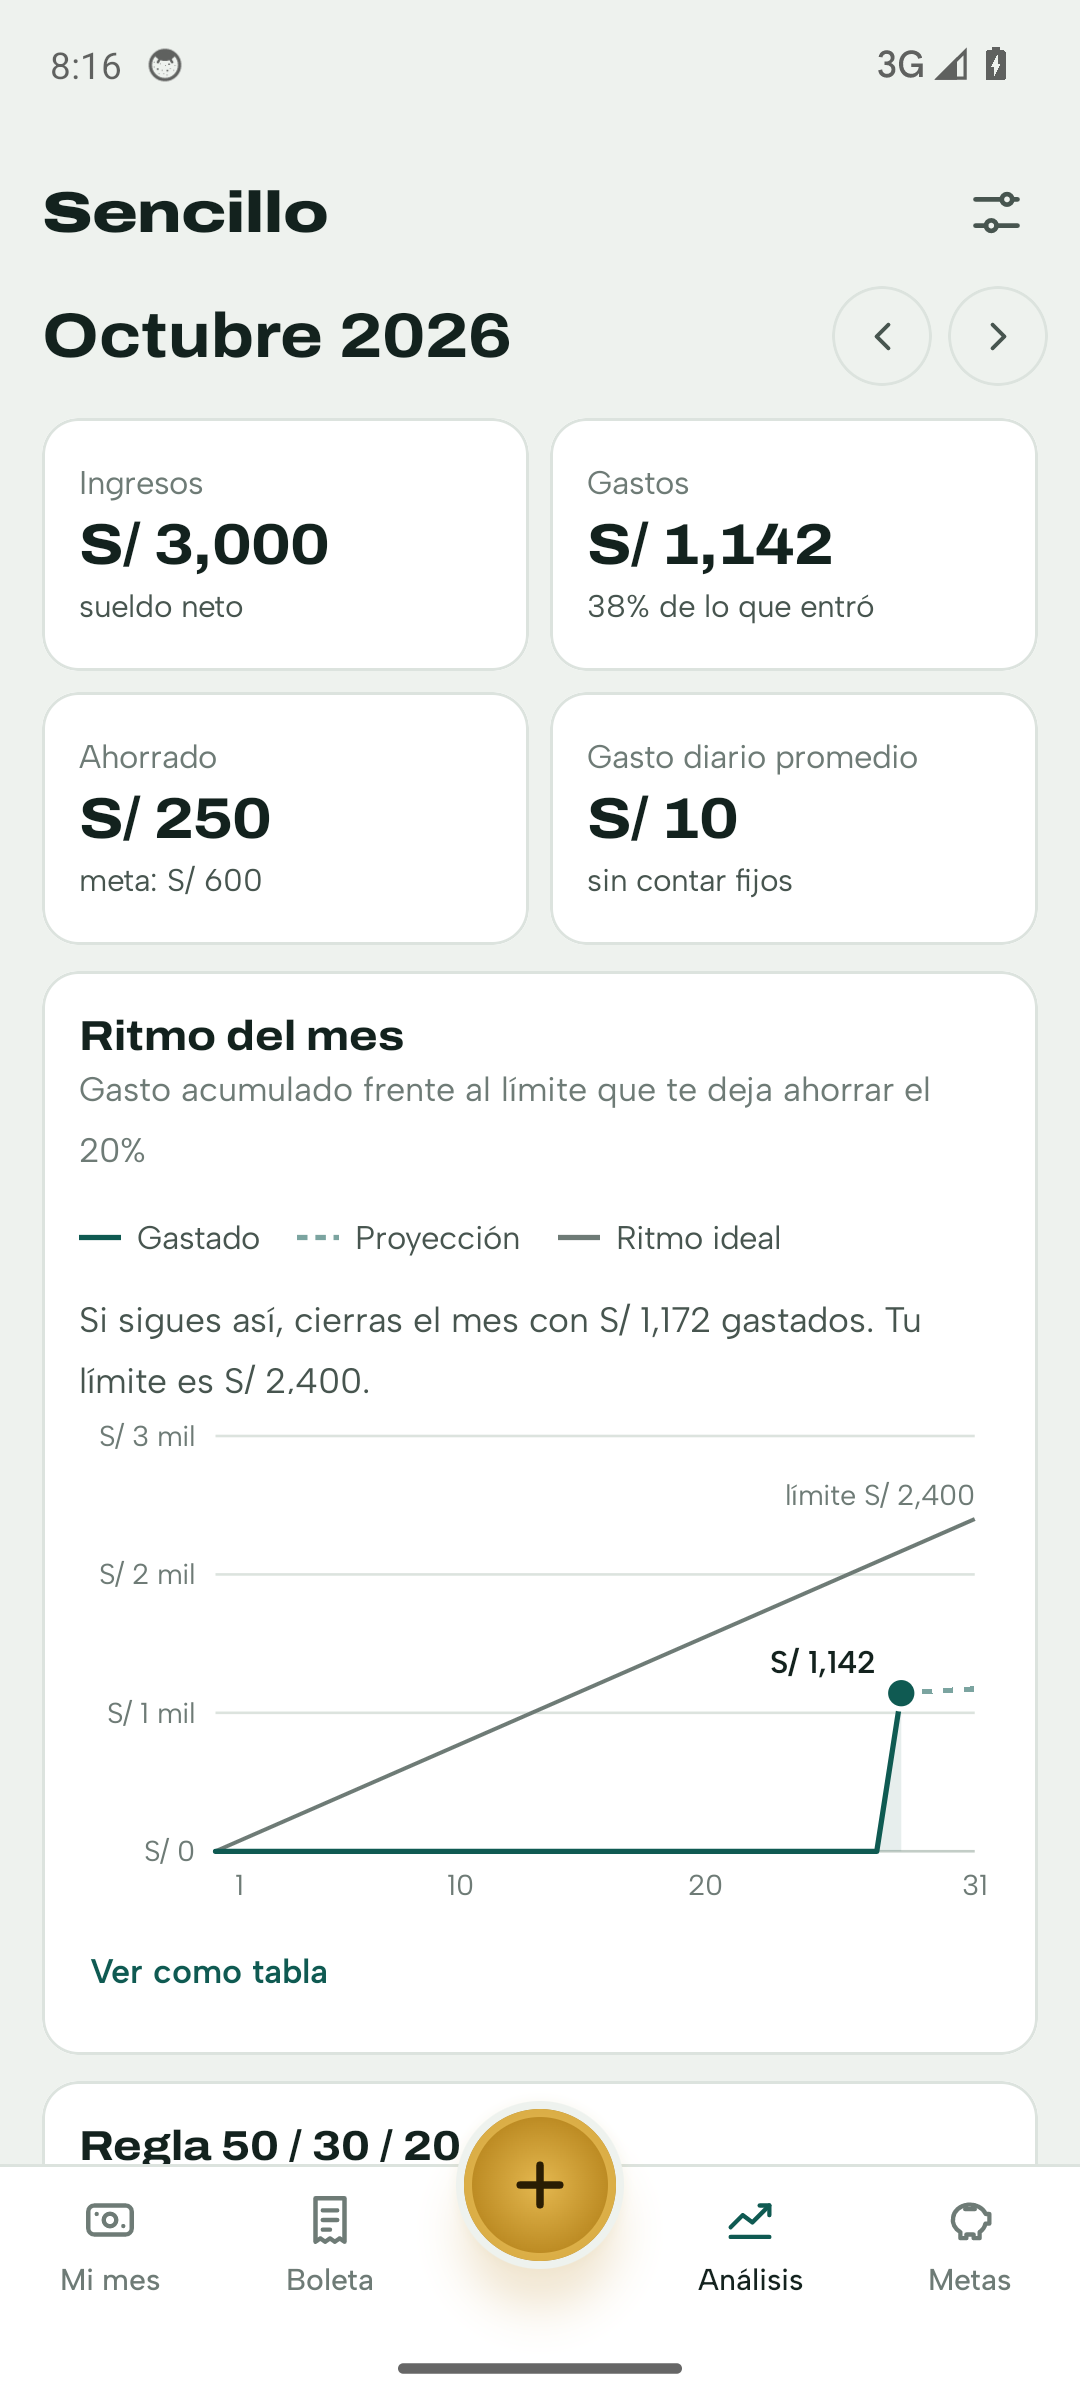
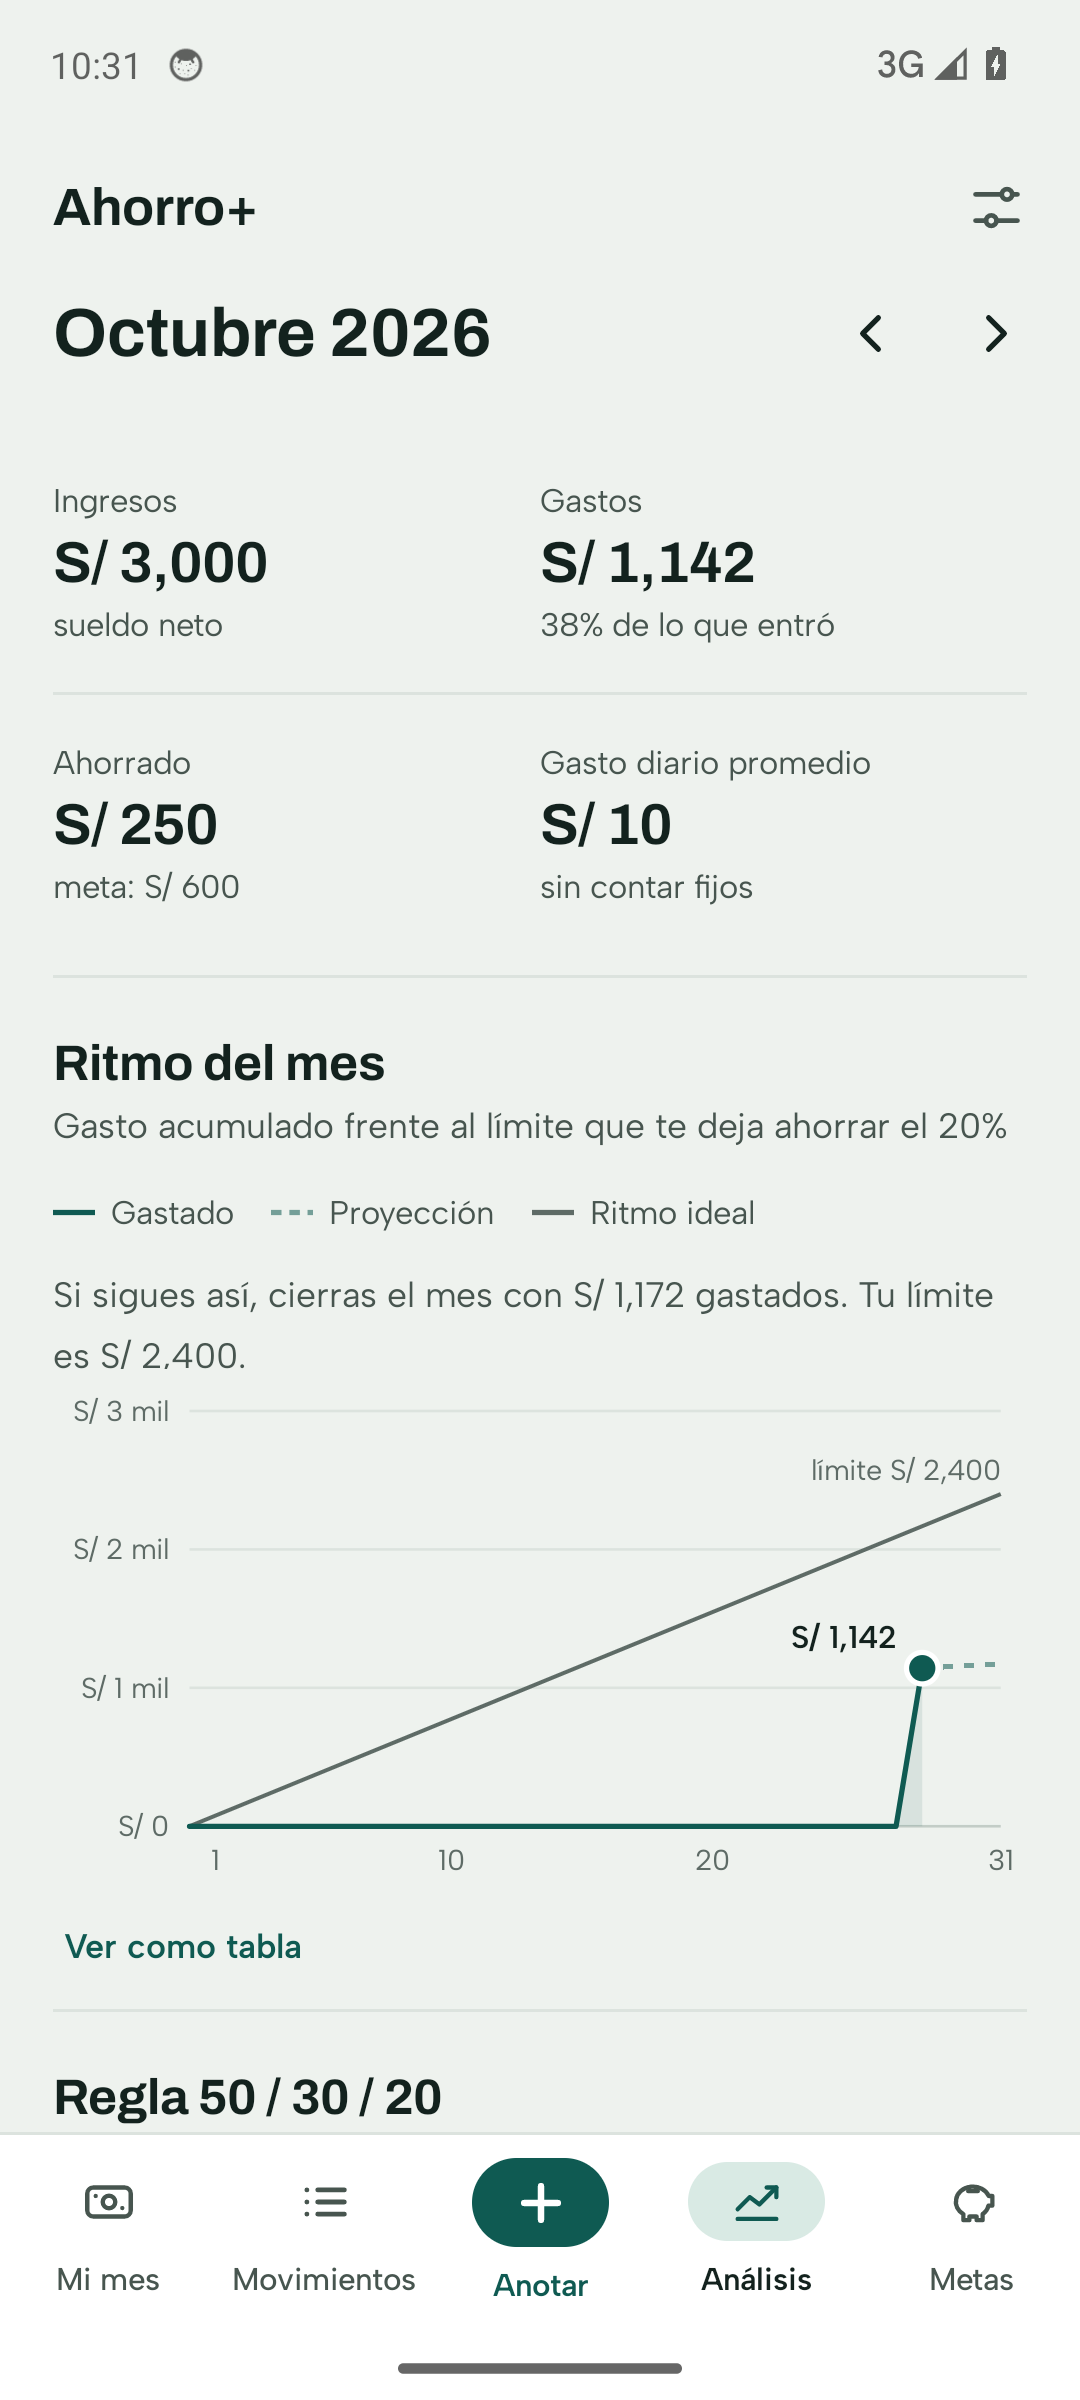
Capturas y README con el diseño nuevo; arreglo de color de montos en modo oscuro
- estiloMonto hereda el estilo del tema: antes dejaba los montos en negro
  sobre fondo oscuro
- README: Límites por categoría, Movimientos, botón Anotar y tutorial

diff --git a/README.md b/README.md
@@ -5,32 +5,34 @@ App de Android para llevar el sueldo, los gastos y el ahorro del mes, en soles. 
 **Sin internet, sin cuentas, sin publicidad.** Todo queda en el celular.
 
 <p>
-  <img src="docs/capturas/mes.png" width="240" alt="Mi mes: el saldo como un billete, el estado del mes y los sobres">
-  <img src="docs/capturas/anotar.png" width="240" alt="Anotar un gasto con el teclado propio">
-  <img src="docs/capturas/analisis.png" width="240" alt="Análisis: ritmo del mes y regla 50/30/20">
+  <img src="docs/capturas/mes.png" width="200" alt="Mi mes, con el primer paso del tutorial: lo que te queda del mes">
+  <img src="docs/capturas/anotar.png" width="200" alt="Anotar un movimiento con el teclado propio">
+  <img src="docs/capturas/movimientos.png" width="200" alt="Movimientos del mes agrupados por día">
+  <img src="docs/capturas/analisis.png" width="200" alt="Análisis: cifras del mes y ritmo de gasto">
 </p>
 
 ## Qué hace
 
-- **Mi mes**: lo que te queda del mes como un billete, cuánto puedes gastar por día y los días que faltan. Debajo, los **sobres** (presupuesto por categoría) que se ponen ámbar cuando te acercas al límite y rojos cuando lo pasas.
-- **Anotar**: el botón dorado abre un teclado propio. Monto, categoría y listo. También registra ingresos extra (cachuelo, gratificación) y aportes de ahorro, y guarda cómo pagaste: efectivo, Yape/Plin, débito o crédito.
-- **Boleta**: todos los movimientos del mes por día. Al tocar uno se puede editar o borrar.
+- **Mi mes**: lo que te queda del mes, cuánto puedes gastar por día y los días que faltan. Debajo, los **límites por categoría**: lo máximo que quieres gastar en cada cosa. La barra se pone ámbar cuando te acercas y roja si te pasas.
+- **Anotar** (el botón del centro): cada vez que gastas, recibes plata o ahorras, lo anotas en el momento con un teclado propio. Pones el monto, eliges en qué fue y listo. También guarda cómo pagaste: efectivo, Yape/Plin, débito o crédito.
+- **Movimientos**: todo lo anotado en el mes, por día. Al tocar uno se puede editar o borrar.
+- **Tutorial** de cuatro pasos la primera vez. Se puede volver a ver desde Ajustes.
 - **Análisis**:
   - Ritmo de gasto contra el límite que te deja ahorrar, con la proyección a fin de mes.
   - Regla 50/30/20.
-  - Gasto por categoría contra su sobre y contra el mes anterior.
+  - Gasto por categoría contra su límite y contra el mes anterior.
   - Medios de pago.
 - **Recomendaciones**: se calculan en el celular. Detectan:
   - Ritmo de gasto excesivo.
-  - Sobres pasados o por pasarse.
+  - Categorías que pasaron su límite o van camino a pasarlo.
   - Gastos hormiga.
   - Falta de ahorro.
   - Uso alto de la tarjeta de crédito.
   - Ausencia de un fondo de emergencia.
 
   Cada una dice cuánto se podría ahorrar.
-- **Metas**: alcancías con cuánto aportar al mes para llegar a la fecha.
-- **Ajustes**: sueldo neto, día de pago, % de ahorro, sobres, bloqueo con huella, respaldo cifrado.
+- **Metas de ahorro**: para qué estás juntando plata y cuánto apartar al mes para llegar a la fecha.
+- **Ajustes**: sueldo neto, día de pago, % de ahorro, límites por categoría, bloqueo con huella y respaldo cifrado.
 
 ## Instalar
 
@@ -88,7 +90,7 @@ Si no encuentra ninguna, genera un APK sin firmar. **Guarda una copia de la clav
 
 ```
 app/src/main/java/pe/sencillo/
-  datos/       Room: movimientos, perfil, sobres, metas (dinero en céntimos)
+  datos/       Room: movimientos, perfil, límites por categoría (tabla `sobres`), metas; dinero en céntimos
   dominio/     catálogo, análisis del mes y recomendaciones (Kotlin puro, con tests)
   seguridad/   bloqueo biométrico, cifrado y validación del respaldo
   ingesta/     punto de entrada para integraciones (ver INTEGRACIONES.md)
